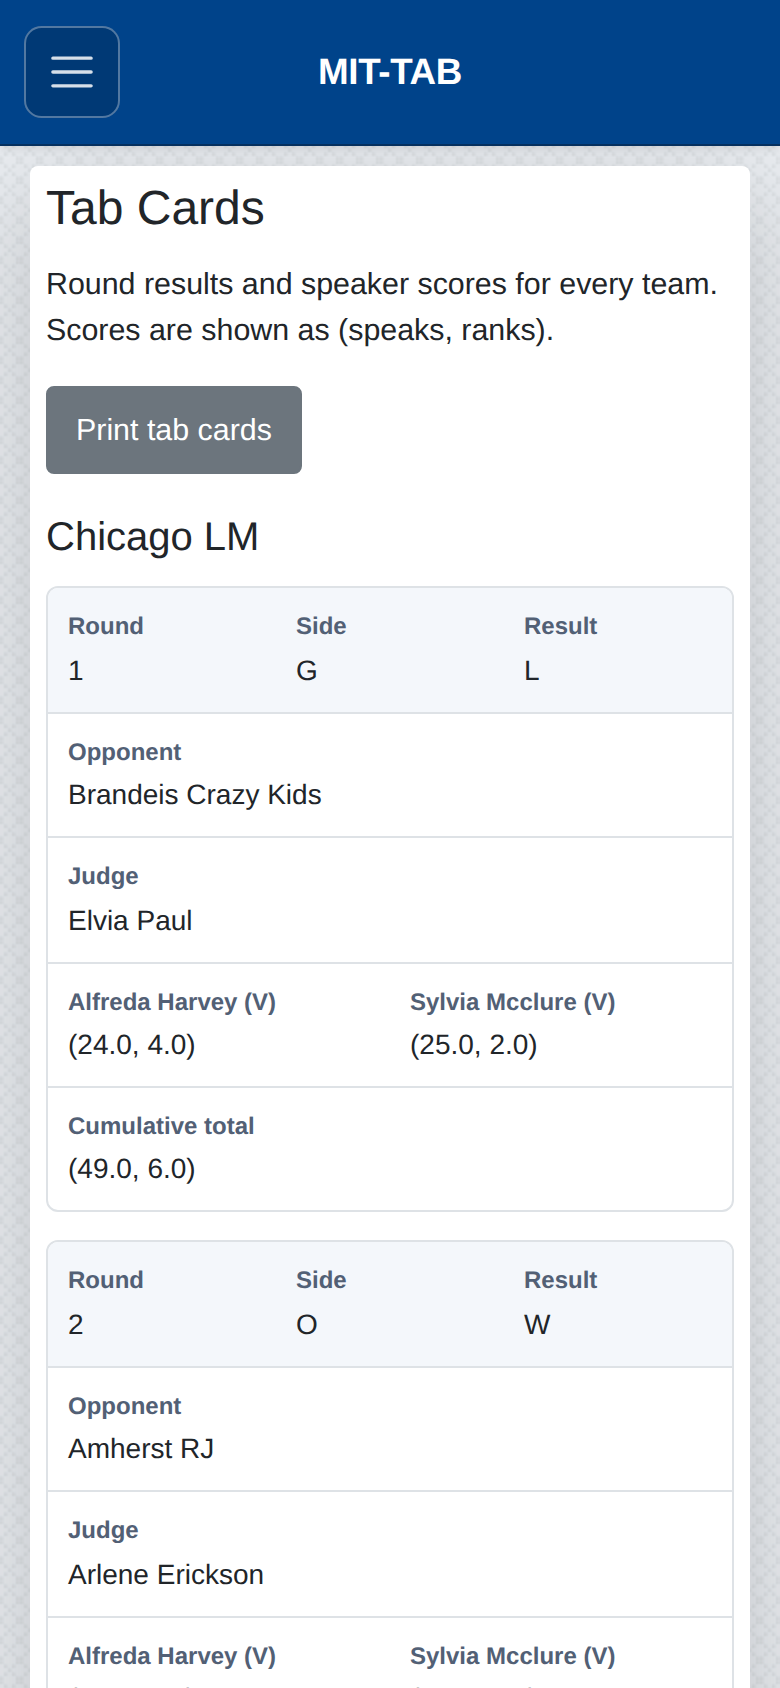
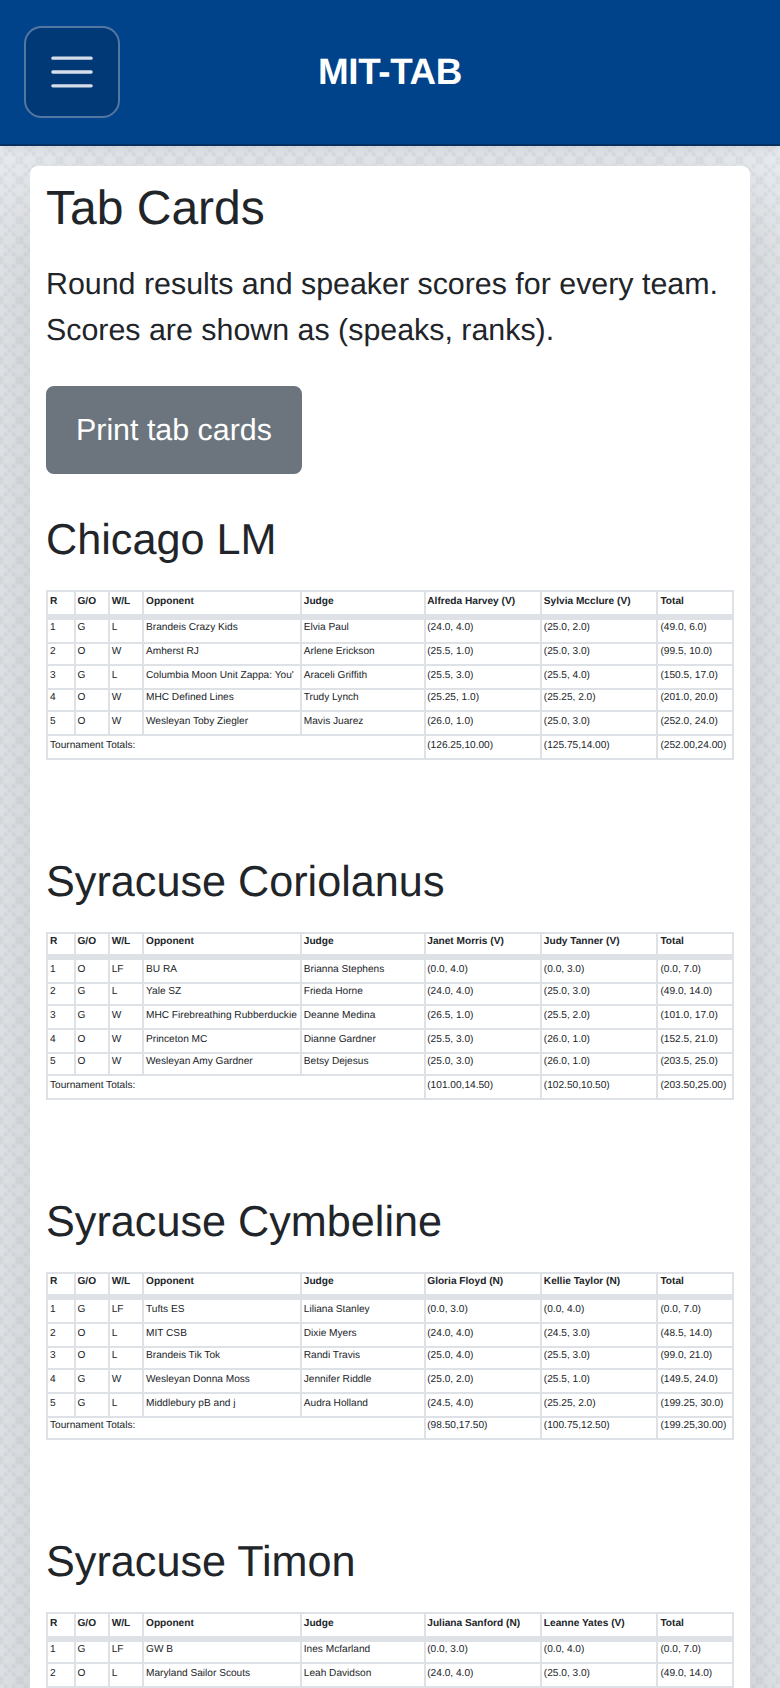
Keep original tab card tables on mobile with compact text

diff --git a/mittab/templates/tab/tab_card.html b/mittab/templates/tab/tab_card.html
@@ -1,43 +1,43 @@
-<table class="tab-card table-bordered table" role="table">
+<table class="tab-card table-bordered table">
 {% if not print_view %}<caption class="sr-only">Tab card for {{ card.team_name }}</caption>{% endif %}
-<thead role="rowgroup">
-<tr role="row">
-    <th scope="col" role="columnheader">R</th>
-    <th scope="col" role="columnheader">G/O</th>
-    <th scope="col" role="columnheader">W/L</th>
-    <th scope="col" role="columnheader">Opponent</th>
-    <th scope="col" role="columnheader">Judge</th>
-    <th scope="col" role="columnheader">
+<thead>
+<tr>
+    <th>R</th>
+    <th>G/O</th>
+    <th>W/L</th>
+    <th>Opponent</th>
+    <th>Judge</th>
+    <th>
       {{card.debater_1}} ({{card.debater_1_status|slice:":1" }})
     </th>
-    <th scope="col" role="columnheader">
+    <th>
       {{card.debater_2}} ({{card.debater_2_status|slice:":1" }})
     </th>
-    <th scope="col" role="columnheader">Total</th>
+    <th>Total</th>
 </tr>
 </thead>
-<tbody role="rowgroup">
+<tbody>
 {% for round_stat in card.round_stats %}
-<tr role="row">
-    <td role="cell" data-label="Round">{{forloop.counter}}</td>
+<tr>
+    <td>{{forloop.counter}}</td>
     {% if forloop.counter == card.bye_round %}
-    <td role="cell" data-label="Side">BYE</td>
+    <td>BYE</td>
     {% else %}
-    <td role="cell" data-label="Side">{{round_stat.0}}</td>
+    <td>{{round_stat.0}}</td>
     {% endif %}
-    <td role="cell" data-label="Result">{{round_stat.1}}</td>
-    <td role="cell" data-label="Opponent">{{round_stat.2}}</td>
-    <td role="cell" data-label="Judge">{{round_stat.3}}</td>
-    <td role="cell" data-label="{{ card.debater_1 }} ({{ card.debater_1_status|slice:":1" }})">{{round_stat.4}}</td>
-    <td role="cell" data-label="{{ card.debater_2 }} ({{ card.debater_2_status|slice:":1" }})">{{round_stat.5}}</td>
-    <td role="cell" data-label="Cumulative total">{{round_stat.6}}</td>
+    <td>{{round_stat.1}}</td>
+    <td>{{round_stat.2}}</td>
+    <td>{{round_stat.3}}</td>
+    <td>{{round_stat.4}}</td>
+    <td>{{round_stat.5}}</td>
+    <td>{{round_stat.6}}</td>
 </tr>
 {% endfor %}
-<tr role="row" class="tab-card__totals">
-    <td role="cell" colspan=5>Tournament Totals:</td>
-    <td role="cell" data-label="{{ card.debater_1 }} ({{ card.debater_1_status|slice:":1" }})">({{ card.d1st|floatformat:2 }},{{ card.d1rt|floatformat:2 }})</td>
-    <td role="cell" data-label="{{ card.debater_2 }} ({{ card.debater_2_status|slice:":1" }})">({{ card.d2st|floatformat:2 }},{{ card.d2rt|floatformat:2 }})</td>
-    <td role="cell" data-label="Team total">({{ card.ts|floatformat:2 }},{{ card.tr|floatformat:2 }})</td>
+<tr>
+    <td colspan=5>Tournament Totals:</td>
+    <td>({{ card.d1st|floatformat:2 }},{{ card.d1rt|floatformat:2 }})</td>
+    <td>({{ card.d2st|floatformat:2 }},{{ card.d2rt|floatformat:2 }})</td>
+    <td>({{ card.ts|floatformat:2 }},{{ card.tr|floatformat:2 }})</td>
 </tr>
 </tbody>
 </table>

diff --git a/assets/css/tab-cards.scss b/assets/css/tab-cards.scss
@@ -24,7 +24,6 @@
   }
 }
 
-// Present every round as a labeled grid on small screens so scores remain visible.
 @media screen and (max-width: 991.98px) {
   #container-main:has(.tab-cards) > .row > .col > h3 {
     font-size: 1.5rem;
@@ -44,112 +43,29 @@
     }
 
     &__card h2 {
-      font-size: 1.25rem;
       overflow-wrap: anywhere;
     }
 
-    .table-responsive {
-      overflow: visible;
-    }
-
     .tab-card {
-      display: block;
       width: 100%;
       min-width: 0;
-      border: 0;
-      font-size: 0.875rem;
+      table-layout: fixed;
+      font-size: clamp(0.25rem, 1.3vw, 0.625rem);
 
-      thead {
-        position: absolute;
-        width: 1px;
-        height: 1px;
-        padding: 0;
-        overflow: hidden;
-        clip: rect(0, 0, 0, 0);
-      }
-
-      tbody {
-        display: grid;
-        gap: 0.875rem;
-      }
-
-      tr {
-        display: grid;
-        grid-template-columns: repeat(6, minmax(0, 1fr));
-        min-width: 0;
-        border: 1px solid #dee2e6;
-        border-radius: 0.375rem;
-        overflow: hidden;
-        break-inside: avoid;
-      }
-
-      td {
-        display: block;
-        grid-column: span 3;
-        min-width: 0;
-        padding: 0.625rem;
-        border: 0;
-        border-bottom: 1px solid #dee2e6;
-        white-space: normal;
+      th, td {
+        padding: 0.3em 0.2em;
         overflow-wrap: anywhere;
-
-        &::before {
-          display: block;
-          margin-bottom: 0.15rem;
-          color: #526075;
-          font-size: 0.75rem;
-          font-weight: 600;
-          content: attr(data-label);
-        }
-
-        &:nth-child(-n + 3) {
-          grid-column: span 2;
-          background: #f4f7fb;
-        }
-
-        &:nth-child(4),
-        &:nth-child(5),
-        &:last-child {
-          grid-column: 1 / -1;
-        }
-
-        &:last-child {
-          border-bottom: 0;
-        }
       }
 
-      .tab-card__totals {
-        td {
-          grid-column: span 3;
-          background: none;
-        }
-
-        td:first-child,
-        td:last-child {
-          grid-column: 1 / -1;
-          background: #f4f7fb;
-        }
-
-        td:first-child {
-          font-weight: 600;
-
-          &::before {
-            content: none;
-          }
-        }
-      }
+      th:nth-child(1) { width: 4%; }
+      th:nth-child(2),
+      th:nth-child(3) { width: 5%; }
+      th:nth-child(4) { width: 23%; }
+      th:nth-child(5) { width: 18%; }
+      th:nth-child(6),
+      th:nth-child(7) { width: 17%; }
+      th:nth-child(8) { width: 11%; }
     }
-  }
-}
-
-@media screen and (min-width: 600px) and (max-width: 991.98px) {
-  .tab-cards .tab-card tbody {
-    grid-template-columns: repeat(2, minmax(0, 1fr));
-    align-items: start;
-  }
-
-  .tab-cards .tab-card__totals {
-    grid-column: 1 / -1;
   }
 }
 

diff --git a/mittab/libs/tests/web/test_tab_cards.py b/mittab/libs/tests/web/test_tab_cards.py
@@ -1,4 +1,4 @@
-"""Public tab cards keep every result visible at phone and tablet widths."""
+"""Original tab card tables fit mobile screens and support browser zoom."""
 from pathlib import Path
 
 from django.conf import settings
@@ -65,8 +65,9 @@ class TabCardsWebTestCase(StaticLiveServerTestCase):
                         cells: cells.map(cell => {
                             const rect = cell.getBoundingClientRect();
                             return {left: rect.left, right: rect.right,
-                                    font: parseFloat(getComputedStyle(cell).fontSize)};
+                                    display: getComputedStyle(cell.parentElement).display};
                         }),
+                        header: getComputedStyle(table.querySelector('thead')).display,
                         printButton: document.querySelector('.tab-cards__intro .btn')
                             .getBoundingClientRect().height,
                     };
@@ -77,12 +78,17 @@ class TabCardsWebTestCase(StaticLiveServerTestCase):
                 for cell in metrics["cells"]:
                     self.assertGreaterEqual(cell["left"], 0)
                     self.assertLessEqual(cell["right"], metrics["viewport"])
-                    self.assertGreaterEqual(cell["font"], 14)
-                self.assertIn("Cumulative total", [
-                    cell.get_attribute("data-label") for cell in self.driver.find_elements(
-                        By.CSS_SELECTOR, ".tab-card tbody tr:first-child td"
-                    )
-                ])
+                    self.assertEqual(cell["display"], "table-row")
+                self.assertEqual(metrics["header"], "table-header-group")
+                self.driver.execute_cdp_cmd("Emulation.setPageScaleFactor", {
+                    "pageScaleFactor": 2,
+                })
+                self.assertEqual(self.driver.execute_script(
+                    "return visualViewport.scale"
+                ), 2)
+                self.driver.execute_cdp_cmd("Emulation.setPageScaleFactor", {
+                    "pageScaleFactor": 1,
+                })
 
         self.driver.execute_cdp_cmd("Emulation.clearDeviceMetricsOverride", {})
         self.driver.set_window_size(1440, 1000)
